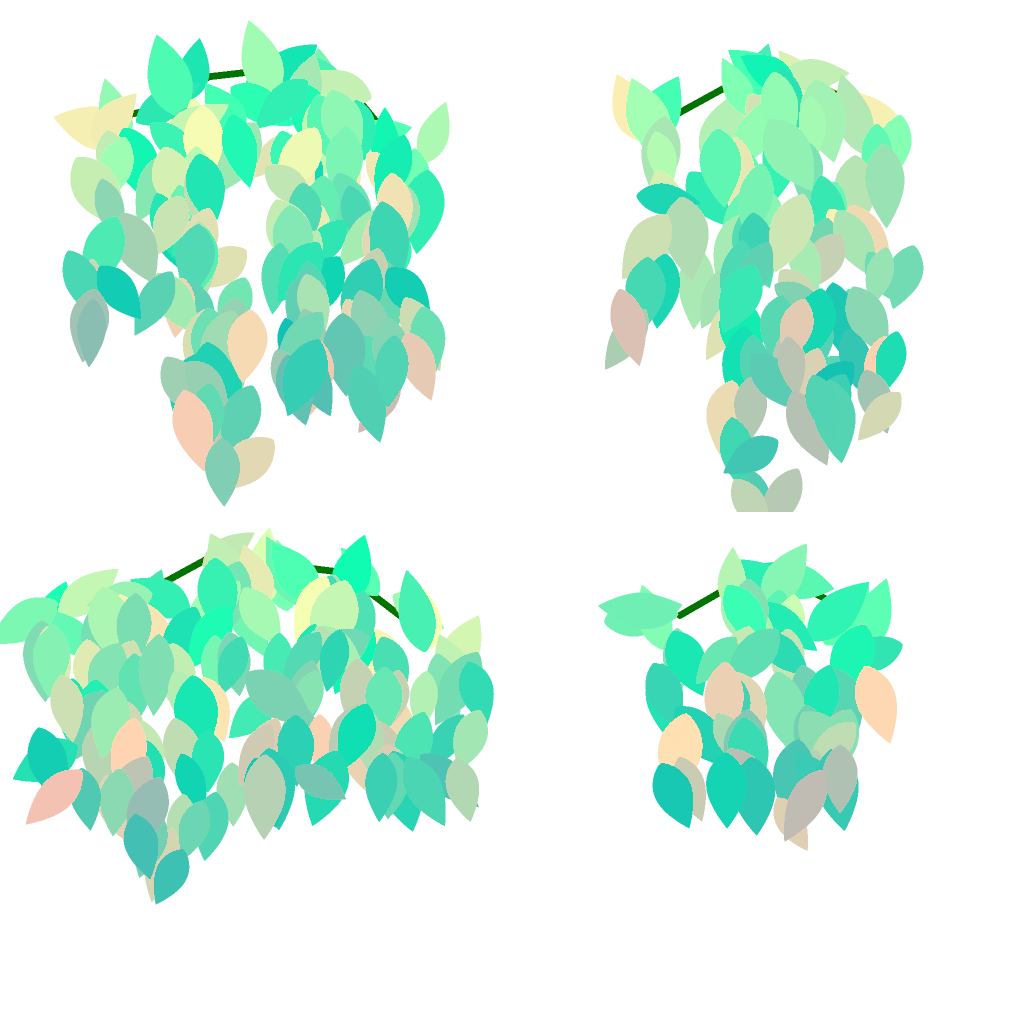
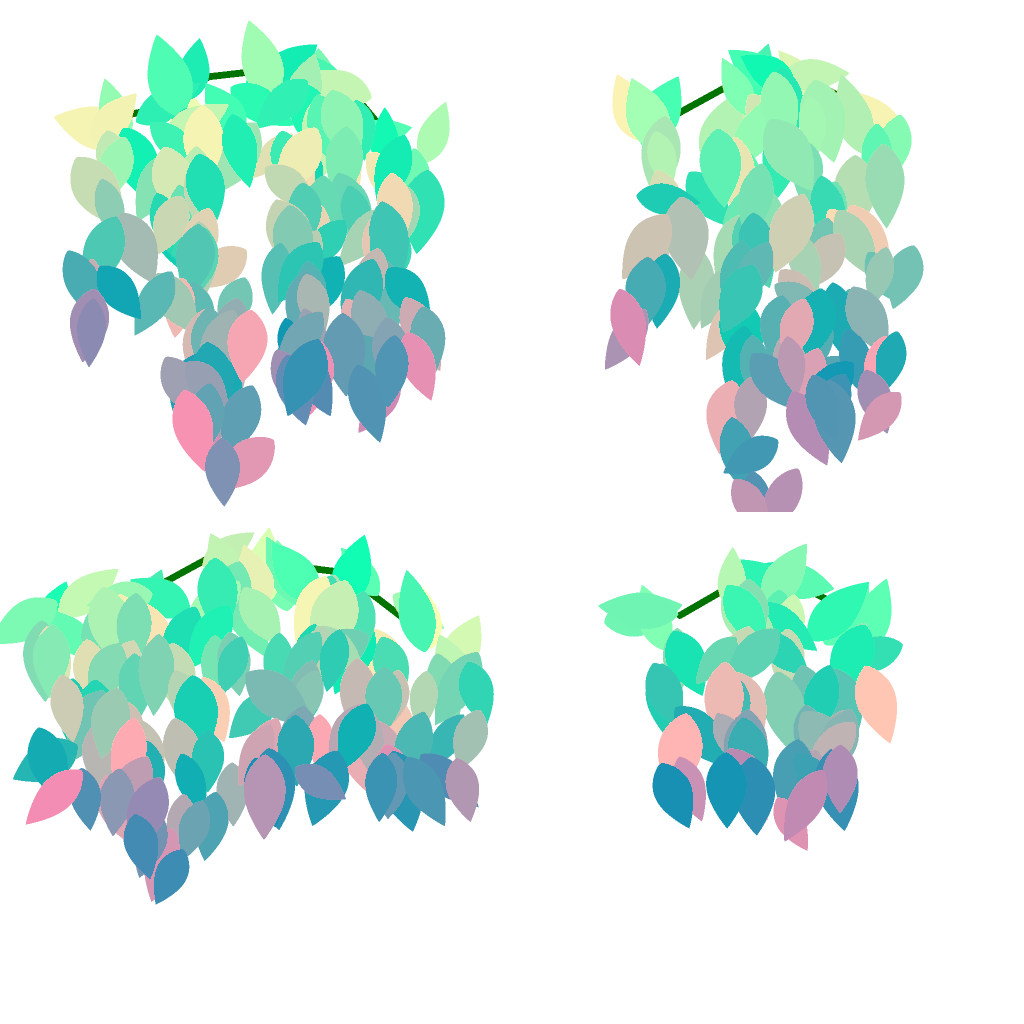
Trees: four planes of sunlight on a lit mass, and each curtain lit along its top and shaded to its foot, so a mass reads as stacked clumps

diff --git a/blender/parts/trees/birch/paint.py b/blender/parts/trees/birch/paint.py
@@ -417,7 +417,8 @@ def paint_lobe(rng, kind):
     arrs[1][twig] = 0.45
     for x, y, ang, g in strokes:
         length = rng.uniform(0.07, 0.1) * LPX
-        light = (1.0 - 0.18 * g) * rng.uniform(0.9, 1.04)
+        # each curtain a little mass of its own: lit along its top, shading down to its foot (Oga's clumps)
+        light = (1.0 - 0.42 * g ** 1.2) * rng.uniform(0.93, 1.03)
         _stroke(arrs, xs, ys, x, y, ang, length, rng.uniform(0.42, 0.55), 0.06 + 0.94 * rng.random(), light)
     return arrs
 
